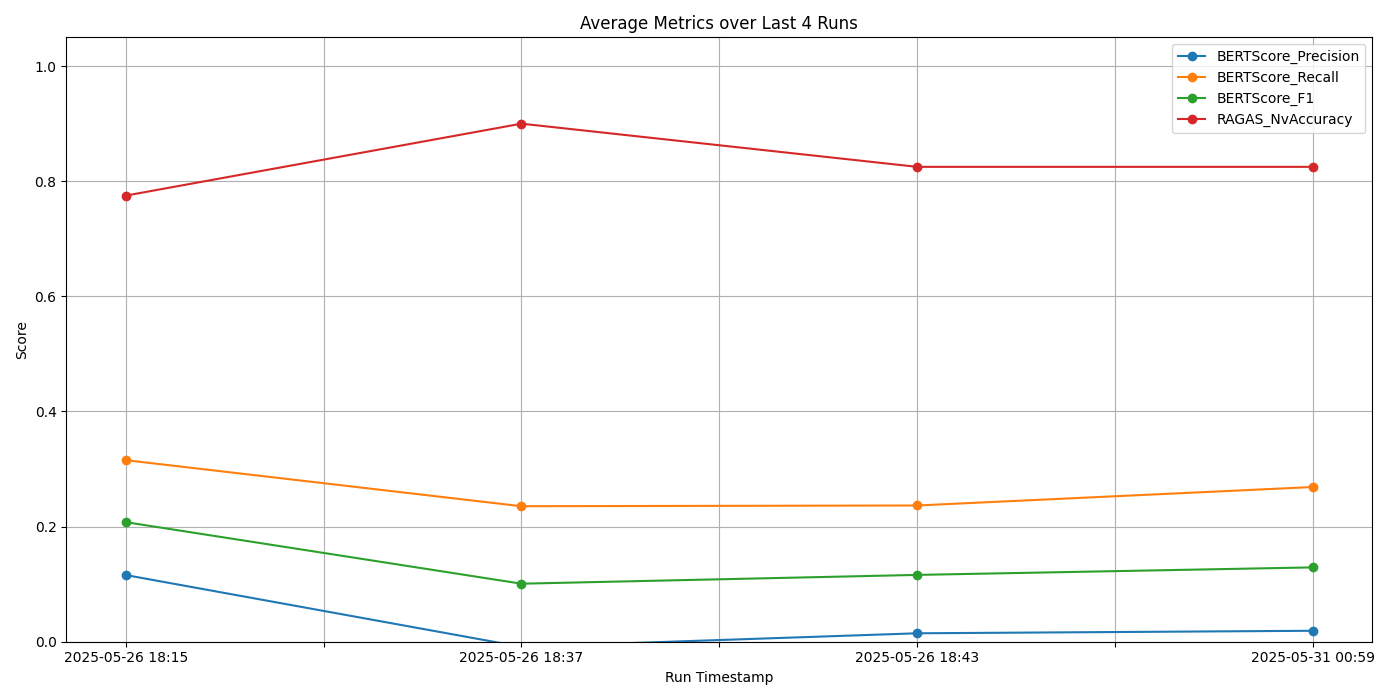
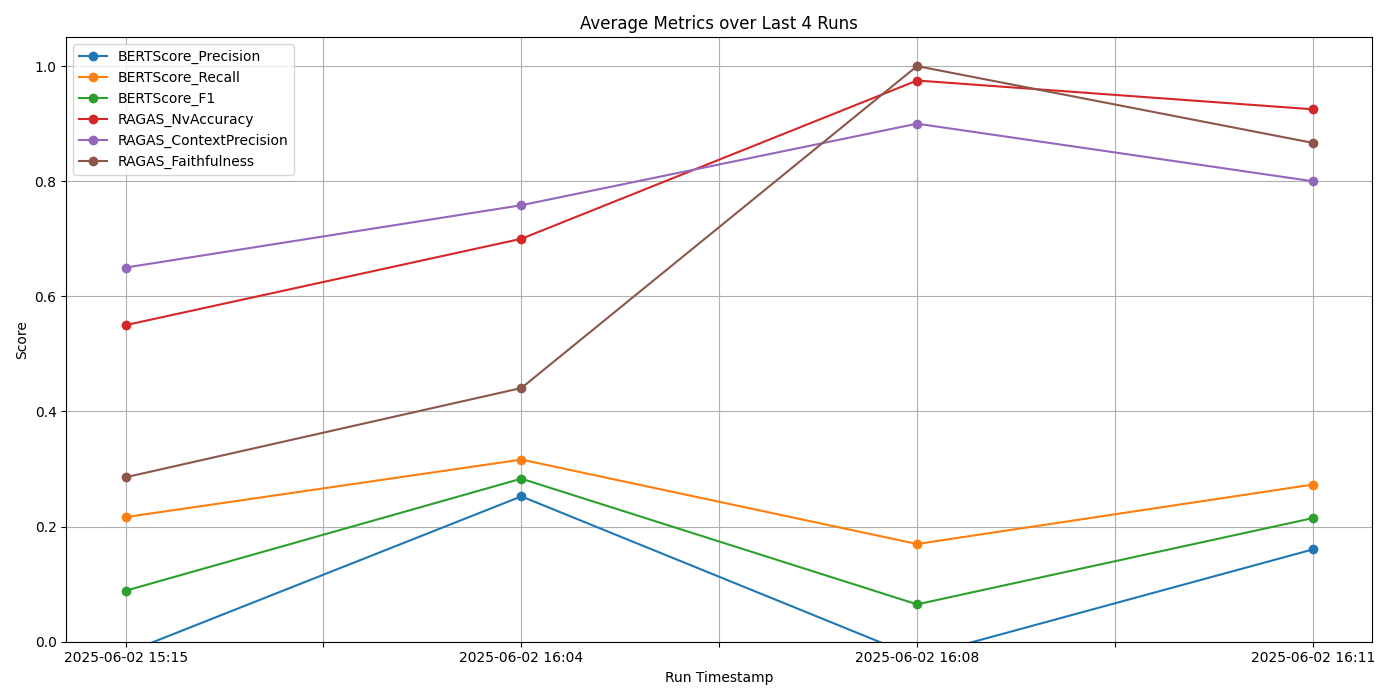
added openai option, added more metrics, updated question answers json

diff --git a/Project/Chatting.py b/Project/Chatting.py
@@ -1,6 +1,6 @@
 from langchain.chains.conversational_retrieval.base import ConversationalRetrievalChain
 from langchain.memory import ConversationBufferWindowMemory
-
+import os
 import Extraction
 from langchain_ollama import ChatOllama
 from langchain.chains import RetrievalQA
@@ -9,9 +9,20 @@ from langchain.chains.combine_documents import create_stuff_documents_chain
 from langchain.chains import create_retrieval_chain
 from langchain.chains import create_history_aware_retriever
 from langchain_core.messages import AIMessage, HumanMessage
+from langchain_community.chat_models import ChatOpenAI
 
+use_openai = False
 chat_model = "mistral"
-llm = ChatOllama(model=chat_model)
+if use_openai:
+    llm = ChatOpenAI(
+        model_name="gpt-4.1-nano",
+        temperature=0,
+        openai_api_key=os.environ.get('OPENAI_API_KEY')
+    )
+    chat_model = "gpt-4.1-nano"
+else:
+    llm = ChatOllama(model=chat_model)
+
 retriever = Extraction.get_vectorstore().as_retriever()
 
 # Reformulates the current user question based on chat history if needed to give history context
@@ -55,37 +66,39 @@ history_aware_retriever = create_history_aware_retriever(
     llm, retriever, history_template
 )
 question_answer_chain = create_stuff_documents_chain(llm, prompt)
-rag_chain = create_retrieval_chain(history_aware_retriever, question_answer_chain)
+retrieval_chain = create_retrieval_chain(history_aware_retriever, question_answer_chain)
 
-rag_chain_simple = create_retrieval_chain(retriever, question_answer_chain)
+#rag_chain_simple = create_retrieval_chain(retriever, question_answer_chain)
 
 # Alternative system
 
 prompt_template = PromptTemplate(
-            template=(
-                "Du bist ein Helfer um Fragen in einem Museum zu beantworten. "
-                "Antworte im Dialog kurz und präzise in gesprochener Sprache und versuche dich auf wenige Sätze zu "
-                "beschränken."
-                "Antworte immer nur auf deutsch"
-                "Nutze den folgenden Kontext zur Museums Ausstellung um die Fragen zu beantworten.\n\n"
-                "Kontext:\n{context}\n\n"
-                "Verlauf:\n{chat_history}\n\n"
-                "Frage:\n{question}\n\n"
-            ),
-            input_variables=["chat_history", "context", "question"]
-        )
-
+    template=(
+        "Du bist ein Helfer um Fragen in einem Museum zu beantworten. "
+        "Antworte im Dialog kurz und präzise in gesprochener Sprache und versuche dich auf wenige Sätze zu "
+        "beschränken."
+        "Antworte immer nur auf deutsch"
+        "Nutze den folgenden Kontext zur Museums Ausstellung um die Fragen zu beantworten.\n\n"
+        "Kontext:\n{context}\n\n"
+        "Verlauf:\n{chat_history}\n\n"
+        "Frage:\n{question}\n\n"
+    ),
+    input_variables=["chat_history", "context", "question"]
+)
 
 memory = ConversationBufferWindowMemory(
     k=5,  # Number of conversation turns (or messages) to keep
     memory_key="chat_history",
-    return_messages=True
+    return_messages=True,
+    output_key="answer"
 )
 qa_chain = ConversationalRetrievalChain.from_llm(
     llm=llm,
     retriever=retriever,
     memory=memory,
-    combine_docs_chain_kwargs={"prompt": prompt_template}
+    combine_docs_chain_kwargs={"prompt": prompt_template},
+    return_source_documents=True,
+    output_key="answer"
 )
 
 
@@ -95,15 +108,16 @@ def continuous_chatting(rag_chain):
         query = input("\nStelle eine Frage (oder 'exit'): ")
         if query.lower() == "exit":
             break
-        result = rag_chain.invoke({"input": query, "chat_history": chat_history})
-        #result = qa_chain.invoke({"question": query,
-        #                               "chat_history": memory.chat_memory.messages})
+        #result = rag_chain.invoke({"input": query, "chat_history": chat_history})
+        result = rag_chain.invoke({"question": query,
+                                   "chat_history": memory.chat_memory.messages})
         chat_history.extend(
             [
                 HumanMessage(content=query),
                 AIMessage(content=result["answer"]),
             ])
         print("\nAntwort:", result["answer"])
+        print("\nSource:", result["source_documents"])
 
 
 def single_Query(query):
@@ -112,3 +126,6 @@ def single_Query(query):
     qa_chain = RetrievalQA.from_chain_type(llm=llm, retriever=retriever)
     result = qa_chain.invoke(query)
     return result["result"]
+
+
+#continuous_chatting(qa_chain)

diff --git a/Project/Testing.py b/Project/Testing.py
@@ -89,16 +89,17 @@ class RetrievalTesting(unittest.TestCase):
                     "question": question,
                     "chat_history": memory.chat_memory.messages
                 })
-
                 prediction = result.get('answer', '') if isinstance(result, dict) else str(result)
-
+                sources = result.get('source_documents', [])
+                contexts = [doc.page_content for doc in sources]
                 all_preds.append(prediction)
                 all_refs.append(reference)
 
                 ragas_dataset.append({
                     "question": question,
                     "ground_truth": reference,
-                    "answer": prediction
+                    "answer": prediction,
+                    "contexts": contexts
                 })
 
                 results.append({
@@ -122,14 +123,16 @@ class RetrievalTesting(unittest.TestCase):
                 })
 
                 prediction = result.get('answer', '') if isinstance(result, dict) else str(result)
-
+                sources = result.get('source_documents', [])
+                contexts = [doc.page_content for doc in sources]
                 all_preds.append(prediction)
                 all_refs.append(reference)
 
                 ragas_dataset.append({
                     "question": question,
                     "ground_truth": reference,
-                    "answer": prediction
+                    "answer": prediction,
+                    "contexts": contexts
                 })
 
                 results.append({

diff --git a/Project/Evaluation.py b/Project/Evaluation.py
@@ -1,7 +1,7 @@
 from bert_score import score as bertscore
 
 from ragas import evaluate
-from ragas.metrics import AnswerAccuracy
+from ragas.metrics import AnswerAccuracy, ContextPrecision, Faithfulness
 from ragas.llms import LangchainLLMWrapper
 
 def evaluate_bertscore(preds, refs):
@@ -15,9 +15,11 @@ def evaluate_bertscore(preds, refs):
 def evaluate_ragas(llm, dataset, embedding):
     llm = LangchainLLMWrapper(llm)
     answer_accuracy = AnswerAccuracy(llm = llm)
+    context_precision = ContextPrecision(llm = llm)
+    faithfulness = Faithfulness(llm = llm)
     result = evaluate(
         dataset=dataset,
-        metrics=[answer_accuracy],
+        metrics=[answer_accuracy, context_precision, faithfulness],
         llm=llm,
         embeddings=embedding
     )

diff --git a/Project/Extraction.py b/Project/Extraction.py
@@ -11,8 +11,8 @@ from langchain_community.vectorstores import FAISS
 
 # subsection headers for JSONL conversion
 section_markers = {"Untergruppentext", "Modultext", "Einführungstext"}
-chunk_size = 650
-chunk_overlap = 70
+chunk_size = 500
+chunk_overlap = 80
 embedding_model = "sentence-transformers/distiluse-base-multilingual-cased-v2"
 pinecone_api_key = os.environ.get('PINECONE_API_KEY')
 index_name = "langchain-index"
